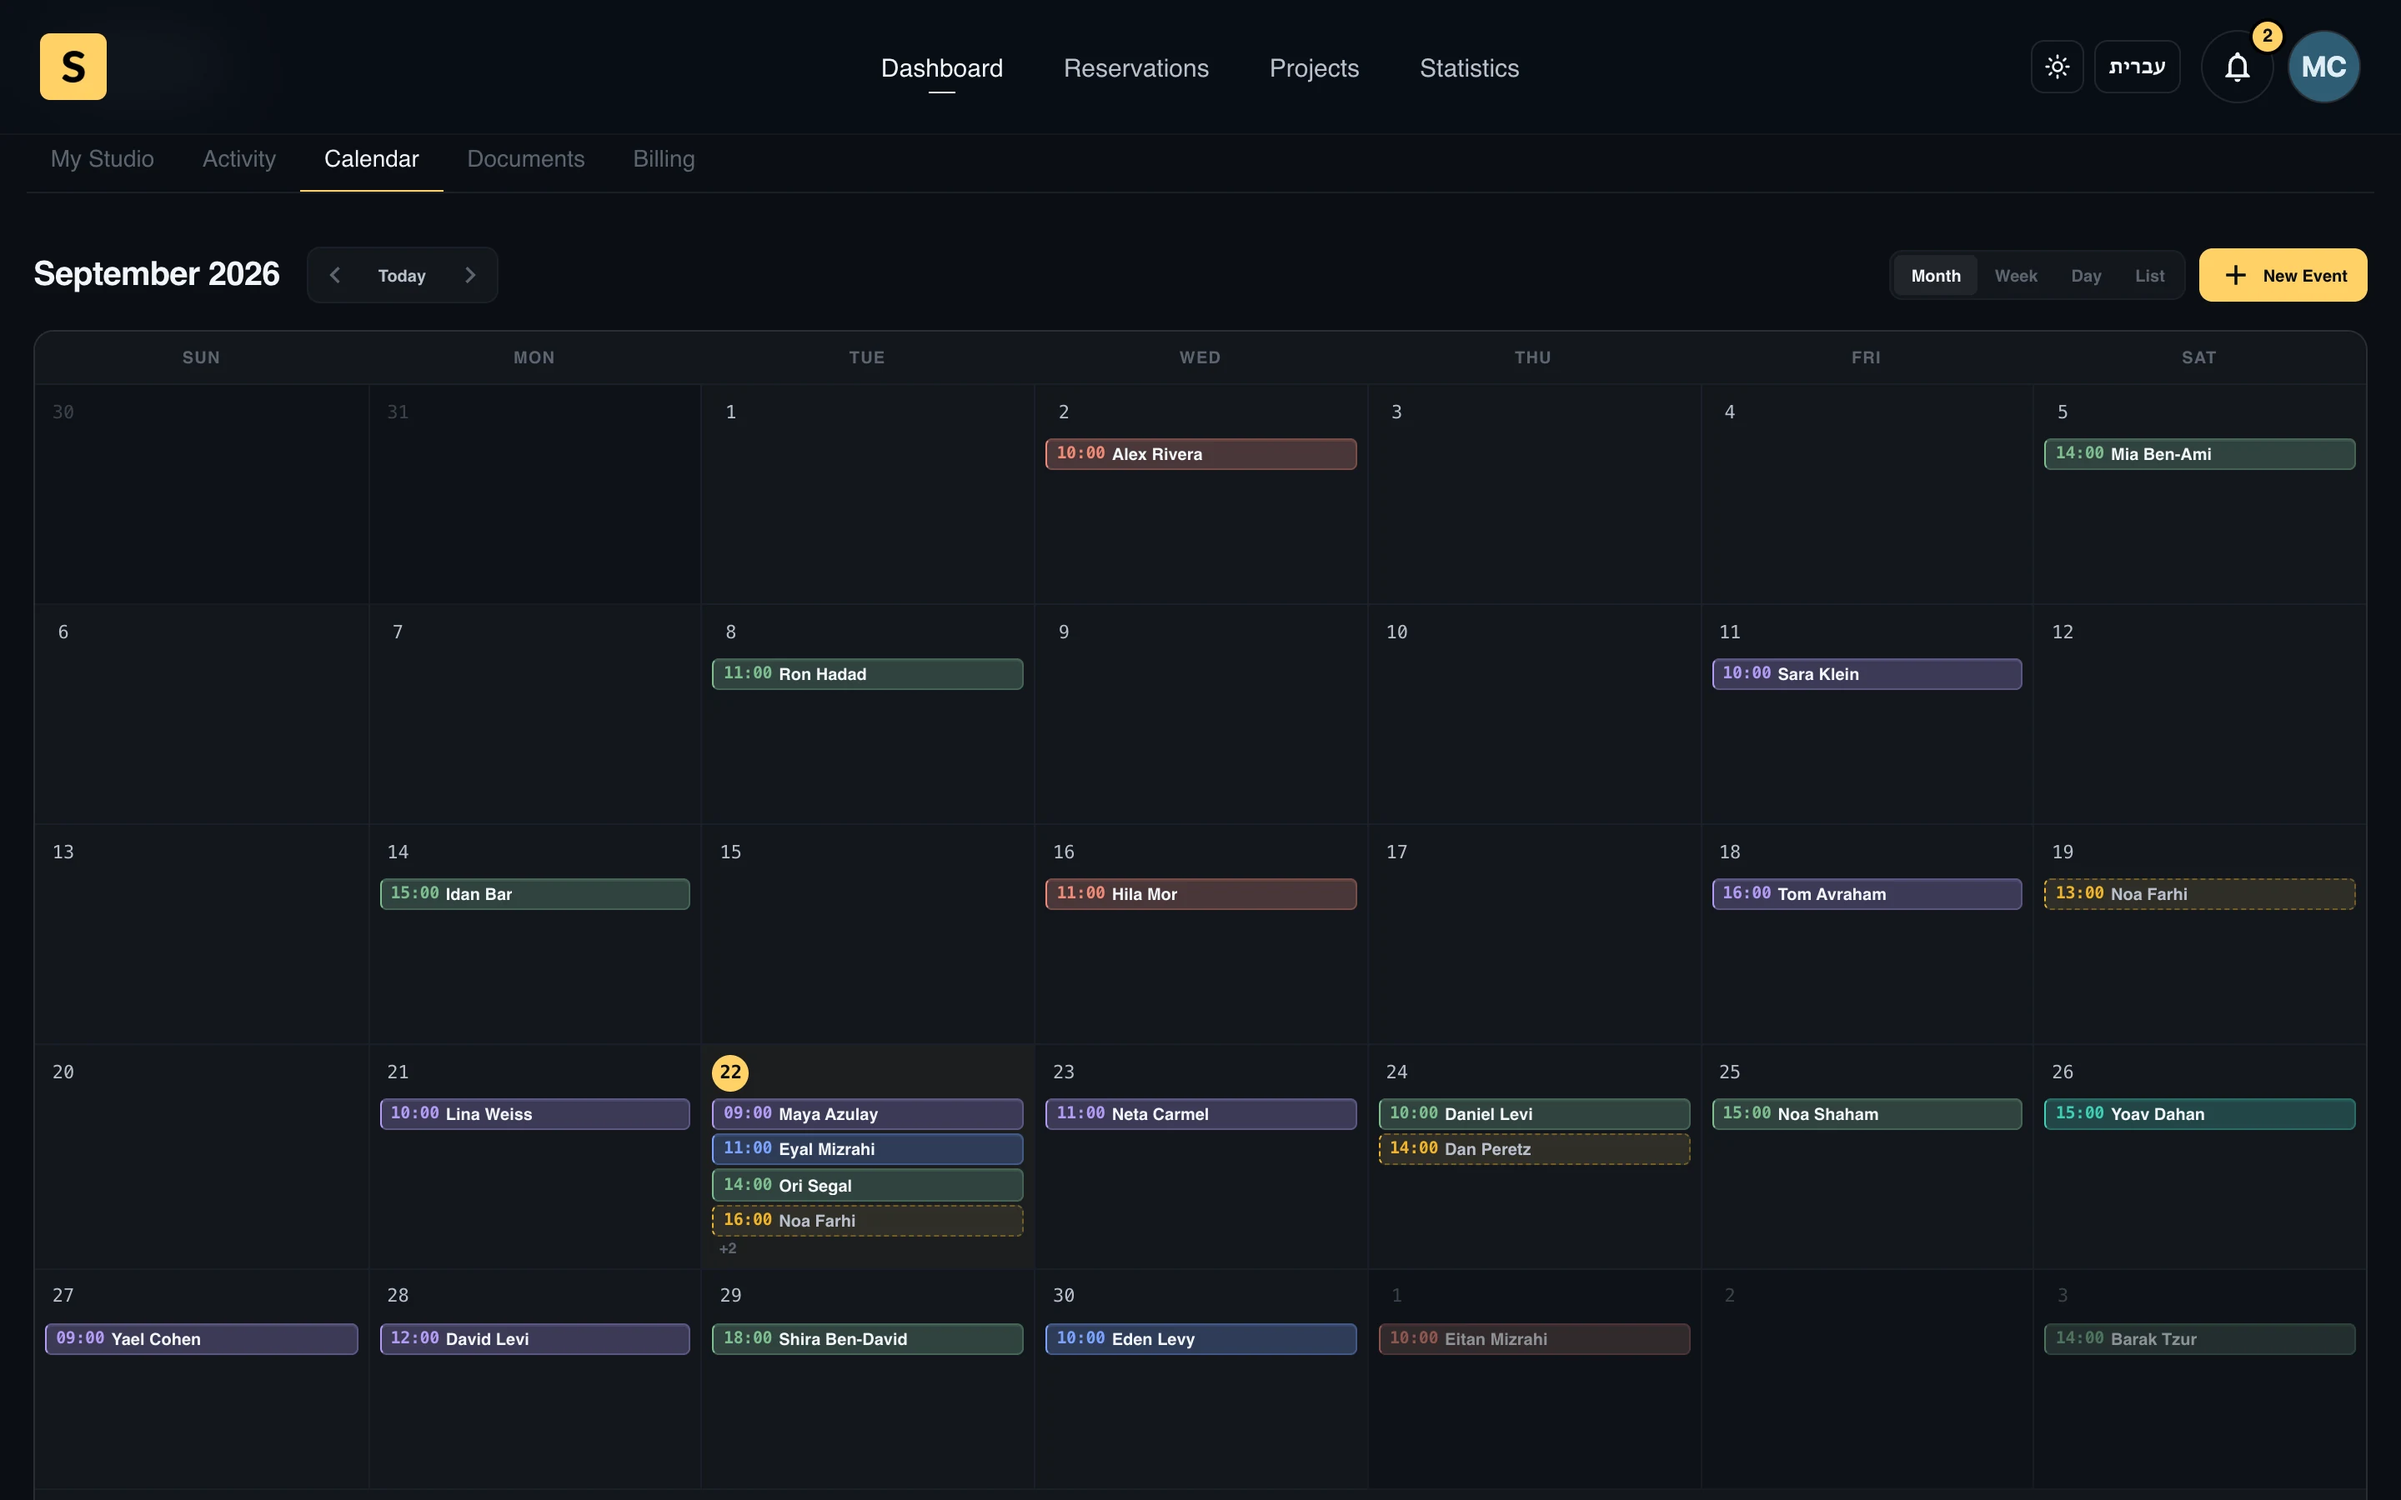
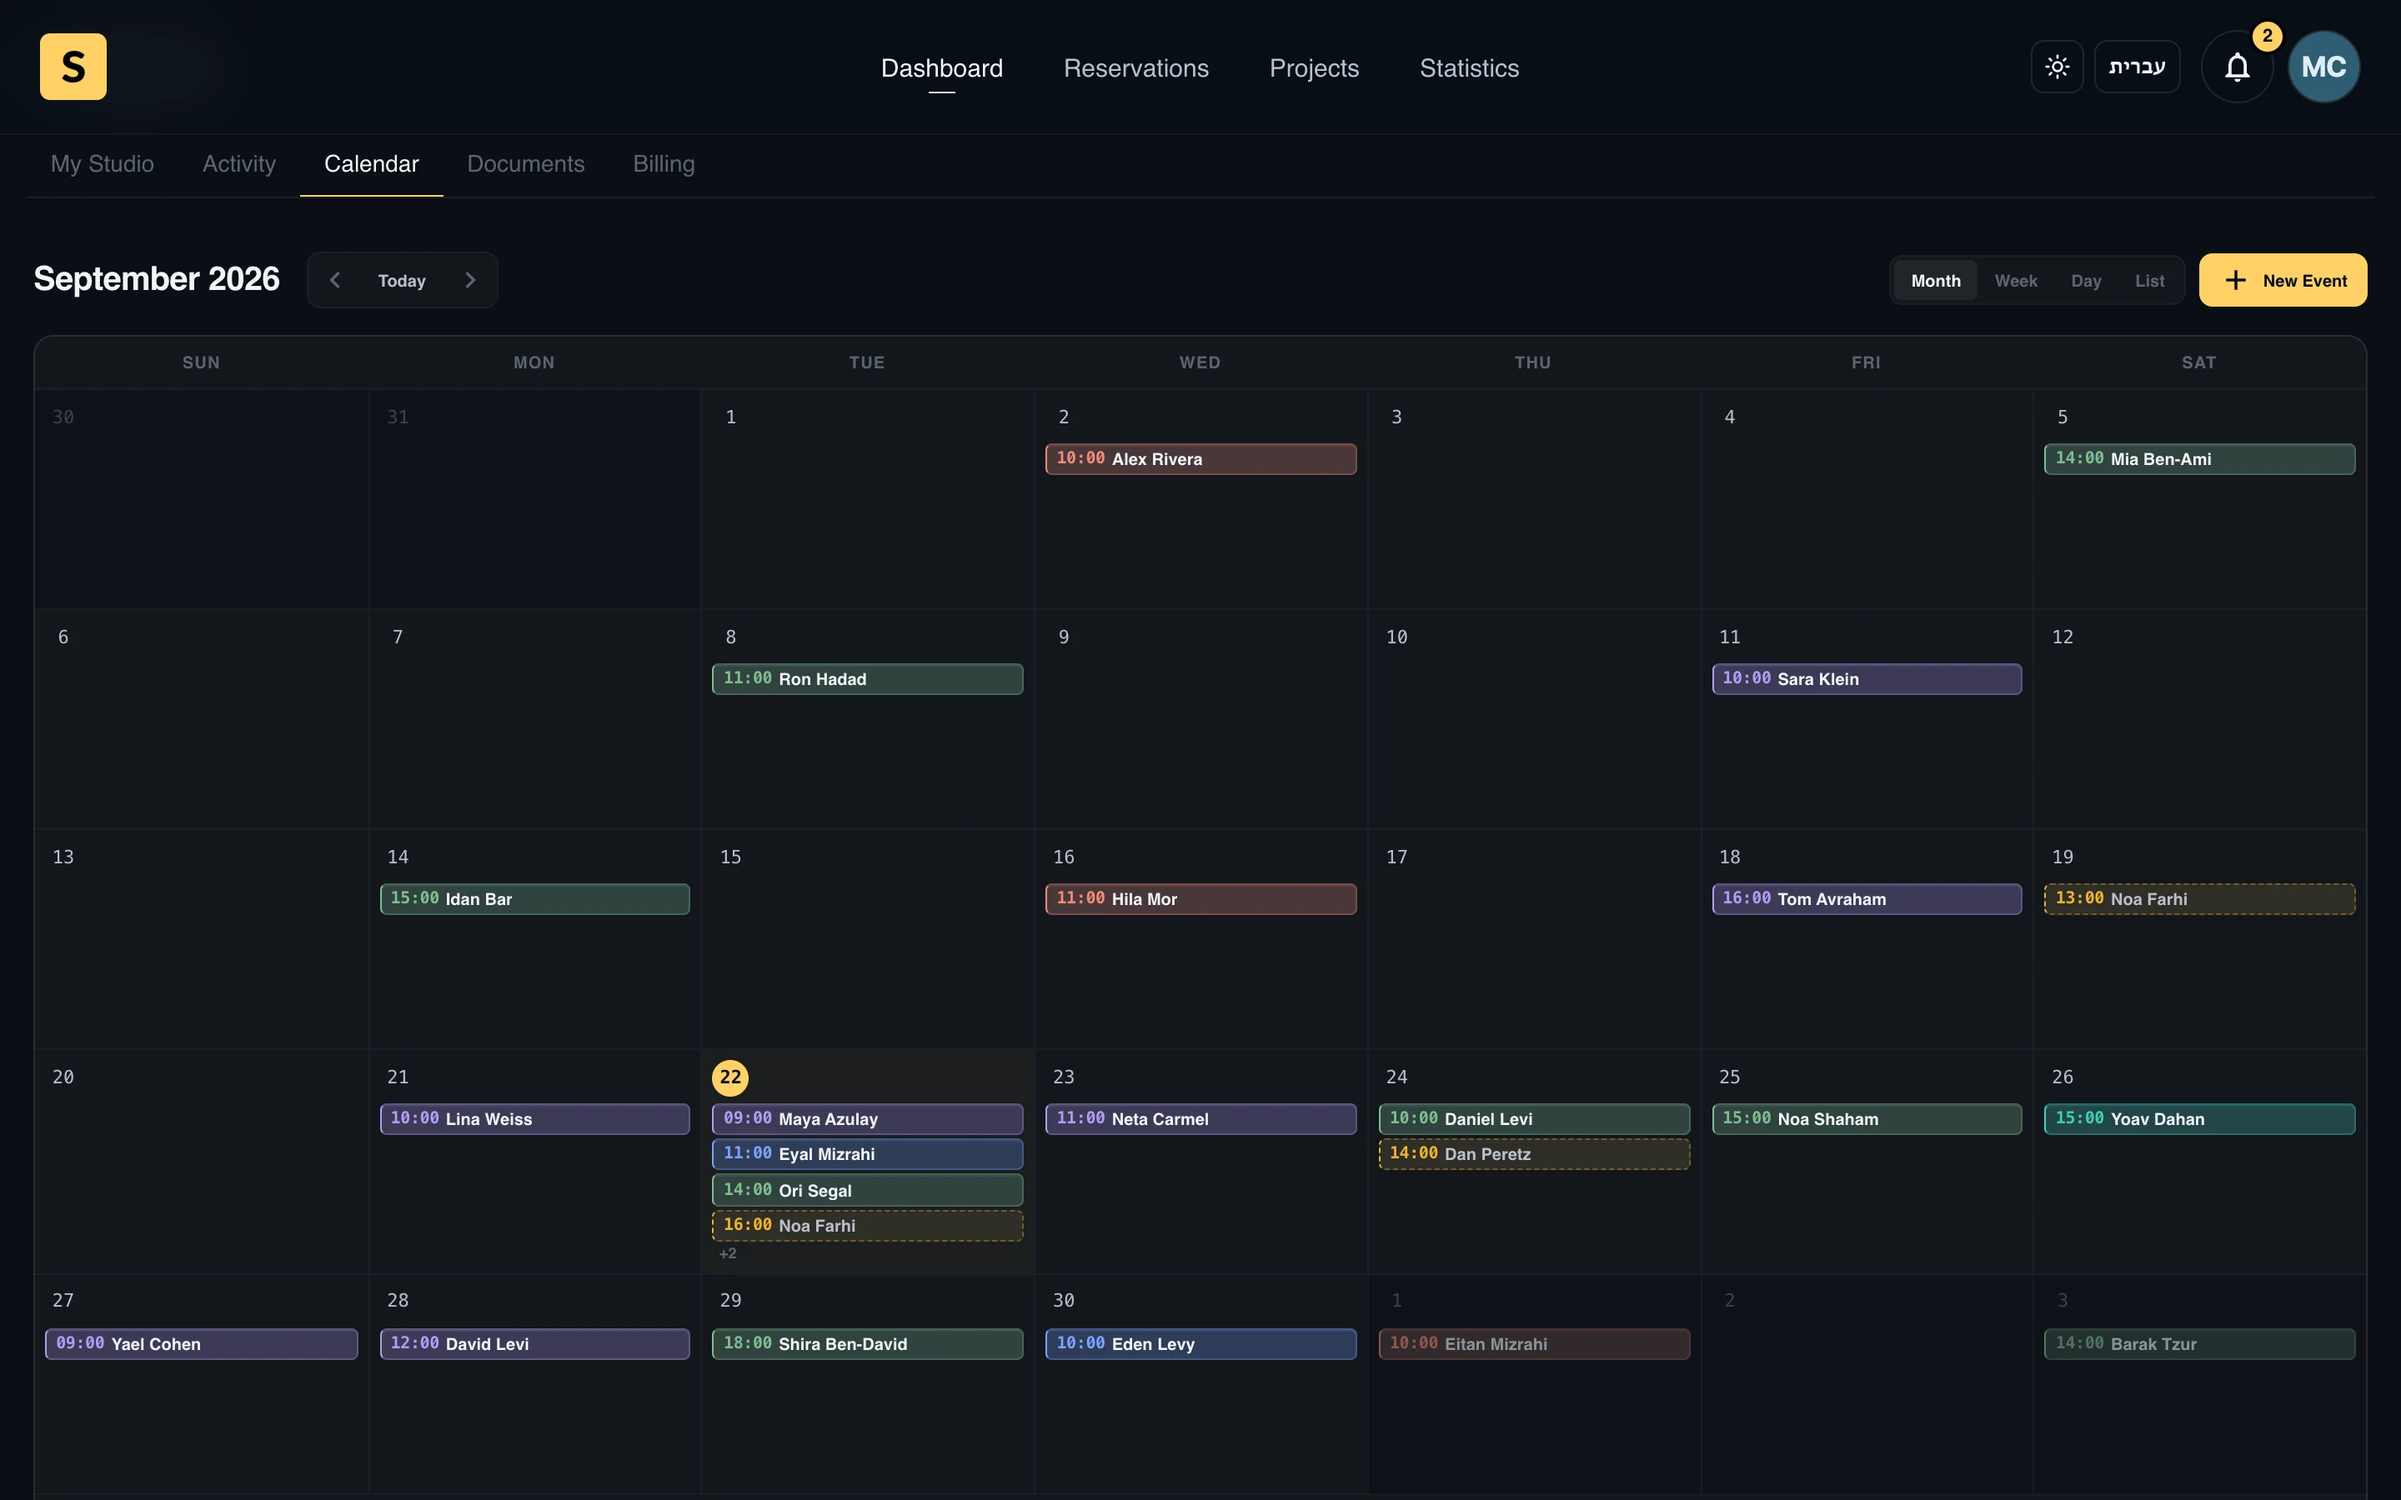
Align month and list calendar capture framing under the site header.
Pin both shots to dashboard tabs so the Dashboard page title scrolls away while fixed chrome stays, and harden absolute/selector scroll for short pages.

diff --git a/tools/app-store-screenshots/src/capture/web.ts b/tools/app-store-screenshots/src/capture/web.ts
@@ -276,13 +276,28 @@ async function runNavigationAction(page: Page, action: NavigationAction): Promis
       action.selector,
       (element, offsetY) => {
         document.documentElement.style.transform = '';
-        element.scrollIntoView({ block: 'start', inline: 'nearest' });
-        if (offsetY) window.scrollBy(0, offsetY);
-        // When the page already fits the viewport, scrollIntoView is a no-op.
-        // Shift visually so the target sits flush at the top (avoids empty bands).
-        const topPad = typeof offsetY === 'number' ? offsetY : 0;
+
+        // Prefer real window scroll so position:fixed site chrome stays put.
+        const targetTop = window.scrollY + element.getBoundingClientRect().top - (offsetY || 0);
+        const maxY = Math.max(0, document.documentElement.scrollHeight - window.innerHeight);
+        if (targetTop > maxY + 1) {
+          let pad = document.getElementById('__screenshot-scroll-pad');
+          if (!pad) {
+            pad = document.createElement('div');
+            pad.id = '__screenshot-scroll-pad';
+            pad.setAttribute('aria-hidden', 'true');
+            pad.style.cssText =
+              'width:1px;pointer-events:none;visibility:hidden;flex:none;';
+            document.body.appendChild(pad);
+          }
+          pad.style.height = `${Math.max(pad.offsetHeight, targetTop - maxY + 48)}px`;
+        }
+
+        window.scrollTo({ left: 0, top: Math.max(0, targetTop), behavior: 'instant' });
+
+        // If scroll still missed (short page / overflow quirks), visual shift.
         const rect = element.getBoundingClientRect();
-        const delta = rect.top - topPad;
+        const delta = rect.top - (offsetY || 0);
         if (Math.abs(delta) > 1) {
           document.documentElement.style.transform = `translate(0px, ${-delta}px)`;
         }
@@ -290,20 +305,38 @@ async function runNavigationAction(page: Page, action: NavigationAction): Promis
       action.offsetY ?? 0
     );
   } else {
-    // Absolute scroll. When the page fits the viewport (common for denser
-    // dashboards), window.scrollTo is a no-op — fall back to a visual shift
-    // so capture framing can still move down.
+    // Absolute scroll. Prefer real window scroll so position:fixed chrome
+    // (site header) stays put — matching tall pages like month calendar.
+    // Pad the document when needed so short pages (e.g. calendar list) can
+    // scroll the same amount instead of using a transform that shifts the header.
     await page.evaluate(({ x, y }) => {
       const left = x || 0;
       const top = y || 0;
-      const maxY = Math.max(0, document.documentElement.scrollHeight - window.innerHeight);
       document.documentElement.style.transform = '';
-      if (top <= maxY) {
-        window.scrollTo({ left, top, behavior: 'instant' });
-        return;
+
+      if (top > 0 || left > 0) {
+        let pad = document.getElementById('__screenshot-scroll-pad');
+        if (!pad) {
+          pad = document.createElement('div');
+          pad.id = '__screenshot-scroll-pad';
+          pad.setAttribute('aria-hidden', 'true');
+          pad.style.cssText =
+            'width:1px;pointer-events:none;visibility:hidden;flex:none;';
+          document.body.appendChild(pad);
+        }
+        // Guarantee enough document height for the requested scroll offset.
+        const maxY = Math.max(0, document.documentElement.scrollHeight - window.innerHeight);
+        const shortfall = Math.max(0, top - maxY);
+        pad.style.height = `${Math.max(pad.offsetHeight, shortfall + top + 24)}px`;
       }
-      window.scrollTo({ left: 0, top: 0, behavior: 'instant' });
-      document.documentElement.style.transform = `translate(${-left}px, ${-top}px)`;
+
+      window.scrollTo({ left, top, behavior: 'instant' });
+
+      // Last resort if scroll still didn't land.
+      if (Math.abs(window.scrollY - top) > 1 || Math.abs(window.scrollX - left) > 1) {
+        window.scrollTo({ left: 0, top: 0, behavior: 'instant' });
+        document.documentElement.style.transform = `translate(${-left}px, ${-top}px)`;
+      }
     }, {
       x: action.x,
       y: action.y

diff --git a/tools/app-store-screenshots/screenshots.config.ts b/tools/app-store-screenshots/screenshots.config.ts
@@ -79,7 +79,7 @@ const scenes: ScreenshotScene[] = [
     template: 'minimal',
     textAlign: 'center',
     actions: [
-      // Taller day cells fill the frame; keep dashboard header/tabs in view.
+      // Taller day cells fill the frame; keep site header + dashboard tabs in view.
       {
         type: 'style',
         css: `
@@ -88,7 +88,8 @@ const scenes: ScreenshotScene[] = [
           .studioz-calendar__month-view { min-height: inherit !important; }
         `
       },
-      { type: 'scroll', y: 72 }
+      // Scroll past Dashboard page title; pin tabs under fixed site header (~64px).
+      { type: 'scroll', selector: '.dashboard-page__views', offsetY: 80 }
     ],
     deviceTransform: { scale: 0.72, y: 100, shadow: true },
     capturePublish: {
@@ -121,15 +122,17 @@ const scenes: ScreenshotScene[] = [
       {
         type: 'style',
         css: `
+          .studioz-calendar__content { min-height: calc(100vh - 8rem) !important; }
           .studioz-calendar__list-view {
+            min-height: inherit !important;
             padding: 0.85rem 1.15rem !important;
           }
           .studioz-calendar__list-events { gap: 0.45rem !important; }
           .studioz-calendar__list-event { padding: 0.65rem 0.85rem !important; }
         `
       },
-      // Match month calendar framing.
-      { type: 'scroll', y: 72 }
+      // Same framing as month: tabs under fixed site header (5rem), Dashboard title scrolled away.
+      { type: 'scroll', selector: '.dashboard-page__views', offsetY: 80 }
     ],
     deviceTransform: { scale: 0.72, y: 100, shadow: true },
     capturePublish: {
